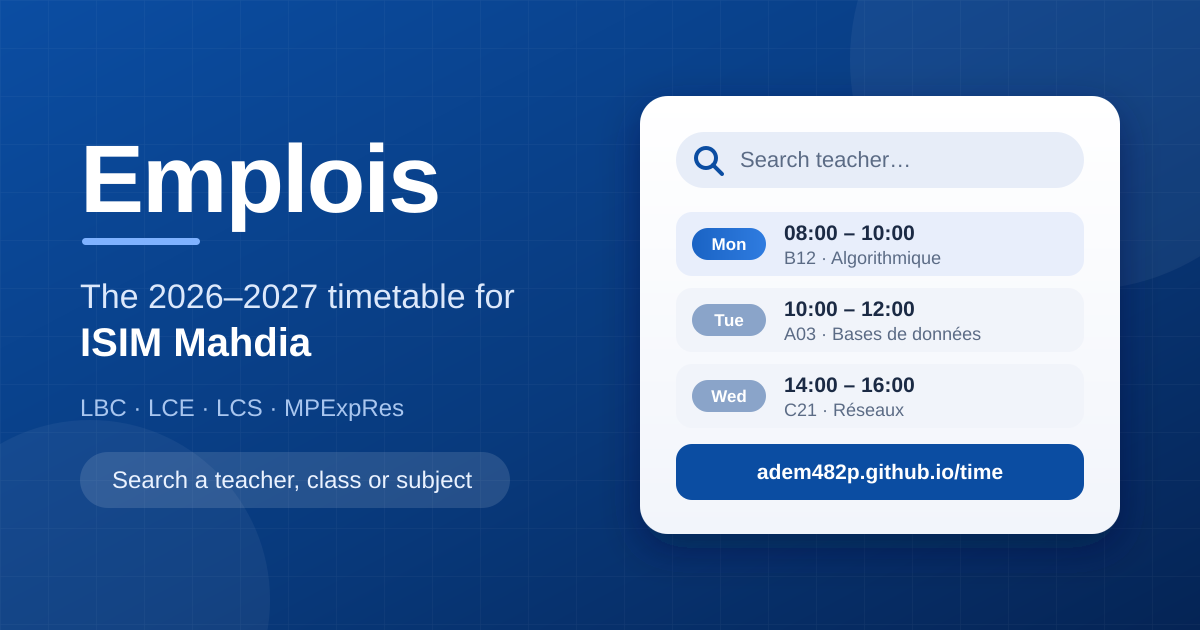
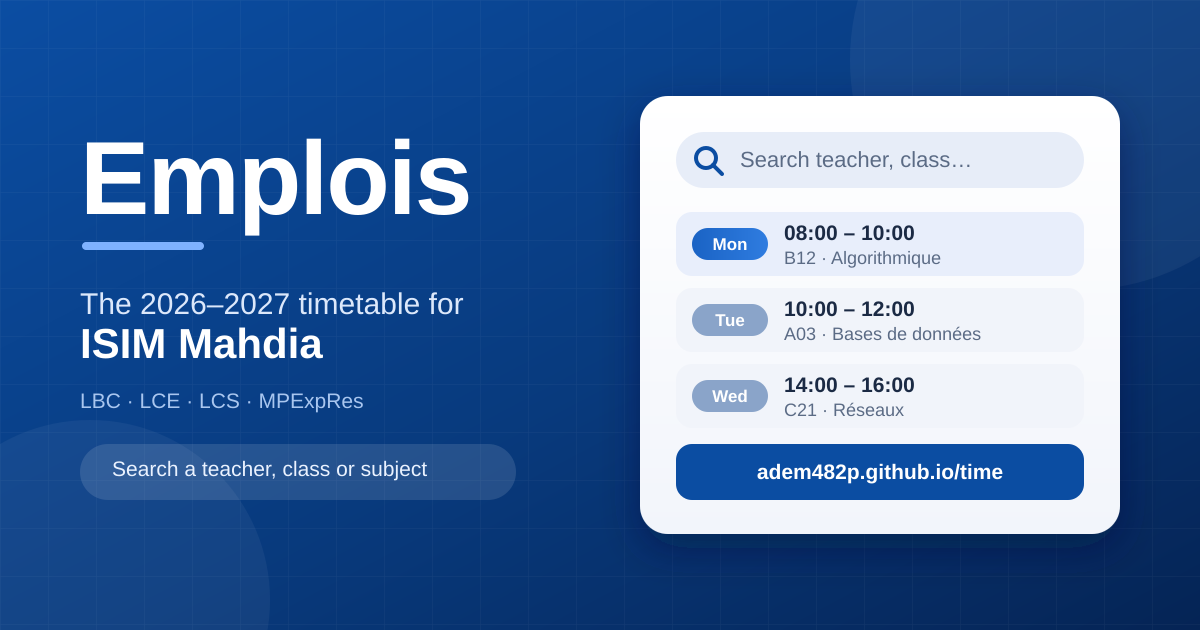
Add class preview assets and update preview image references for classes page

diff --git a/classes/index.html b/classes/index.html
@@ -14,7 +14,7 @@
 <meta property="og:url" content="https://adem482p.github.io/time/classes/">
 <meta property="og:title" content="Emplois — ISIM Mahdia Class Week Timetable 2026–2027">
 <meta property="og:description" content="Browse the 2026–2027 class week timetable of ISIM Mahdia (LBC, LCE, LCS, MPExpRes): search a class and see its whole week grid.">
-<meta property="og:image" content="https://adem482p.github.io/time/assets/preview.png">
+<meta property="og:image" content="https://adem482p.github.io/time/assets/preview-classes.png">
 <meta property="og:image:type" content="image/png">
 <meta property="og:image:width" content="1200">
 <meta property="og:image:height" content="630">
@@ -23,7 +23,7 @@
 <meta name="twitter:card" content="summary_large_image">
 <meta name="twitter:title" content="Emplois — ISIM Mahdia Class Week Timetable 2026–2027">
 <meta name="twitter:description" content="Search a class and see its whole week grid of the 2026–2027 timetable.">
-<meta name="twitter:image" content="https://adem482p.github.io/time/assets/preview.png">
+<meta name="twitter:image" content="https://adem482p.github.io/time/assets/preview-classes.png">
 <meta name="twitter:image:alt" content="Emplois — the ISIM Mahdia class week timetable, searchable by class.">
 
 <link rel="canonical" href="https://adem482p.github.io/time/classes/">
